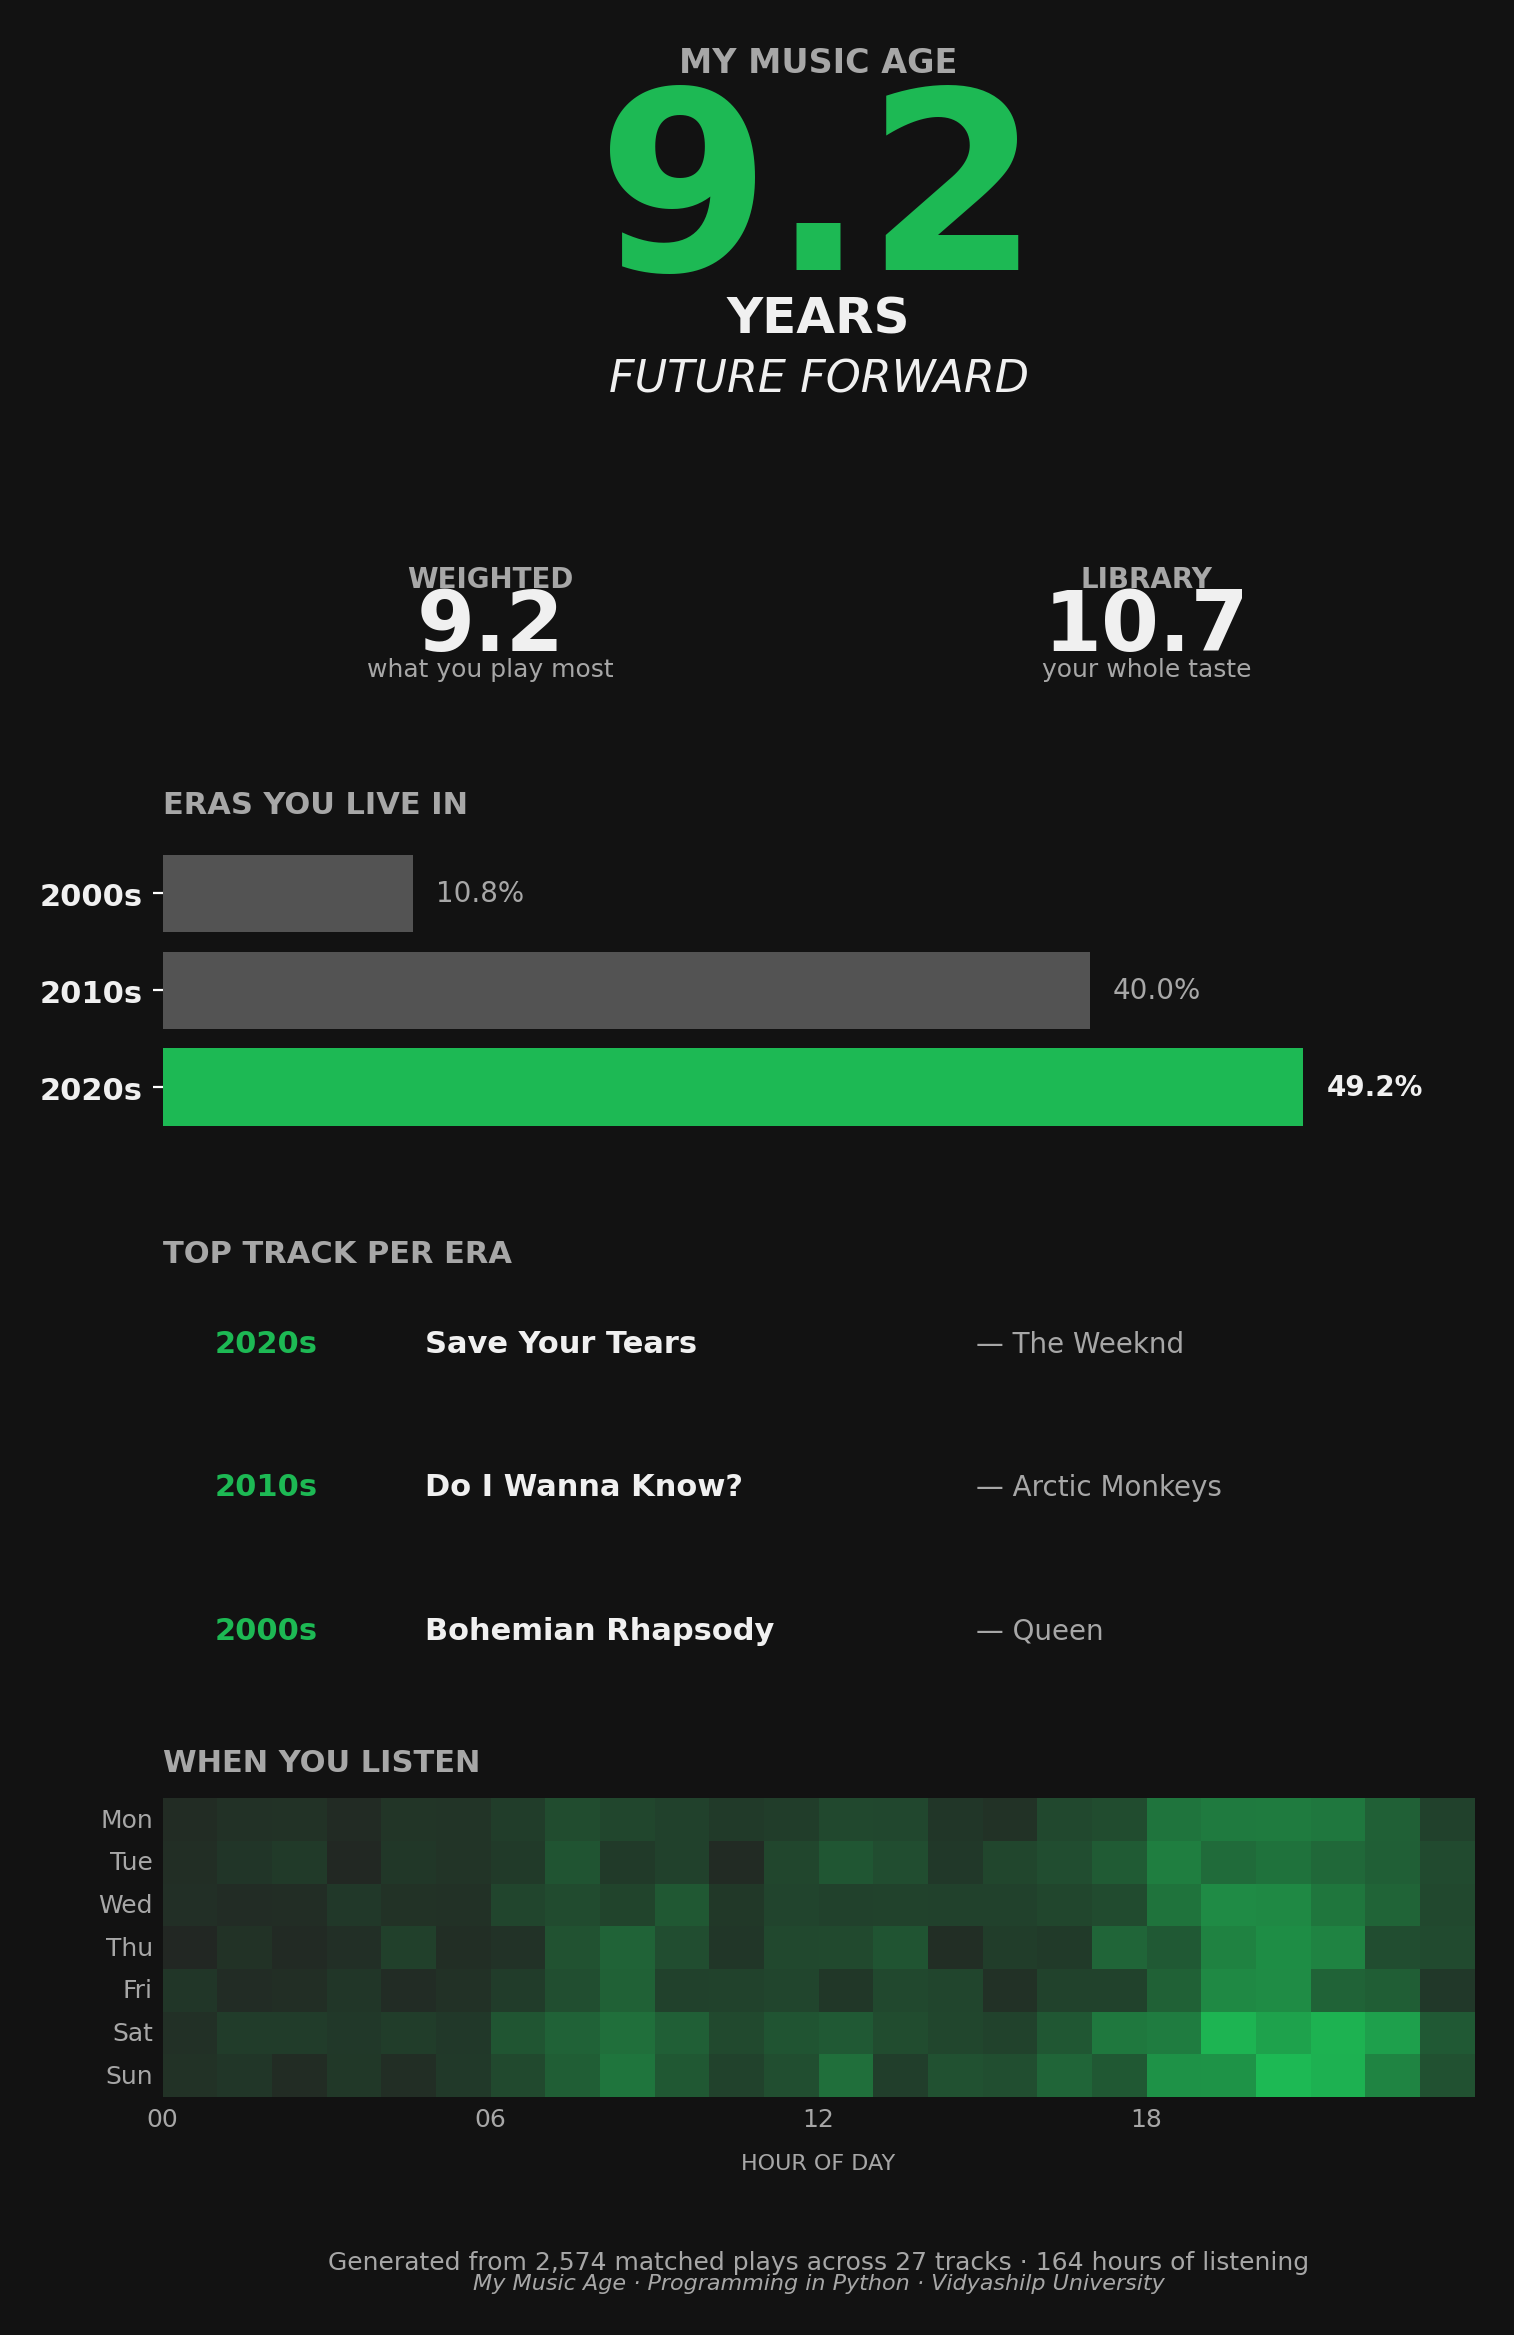
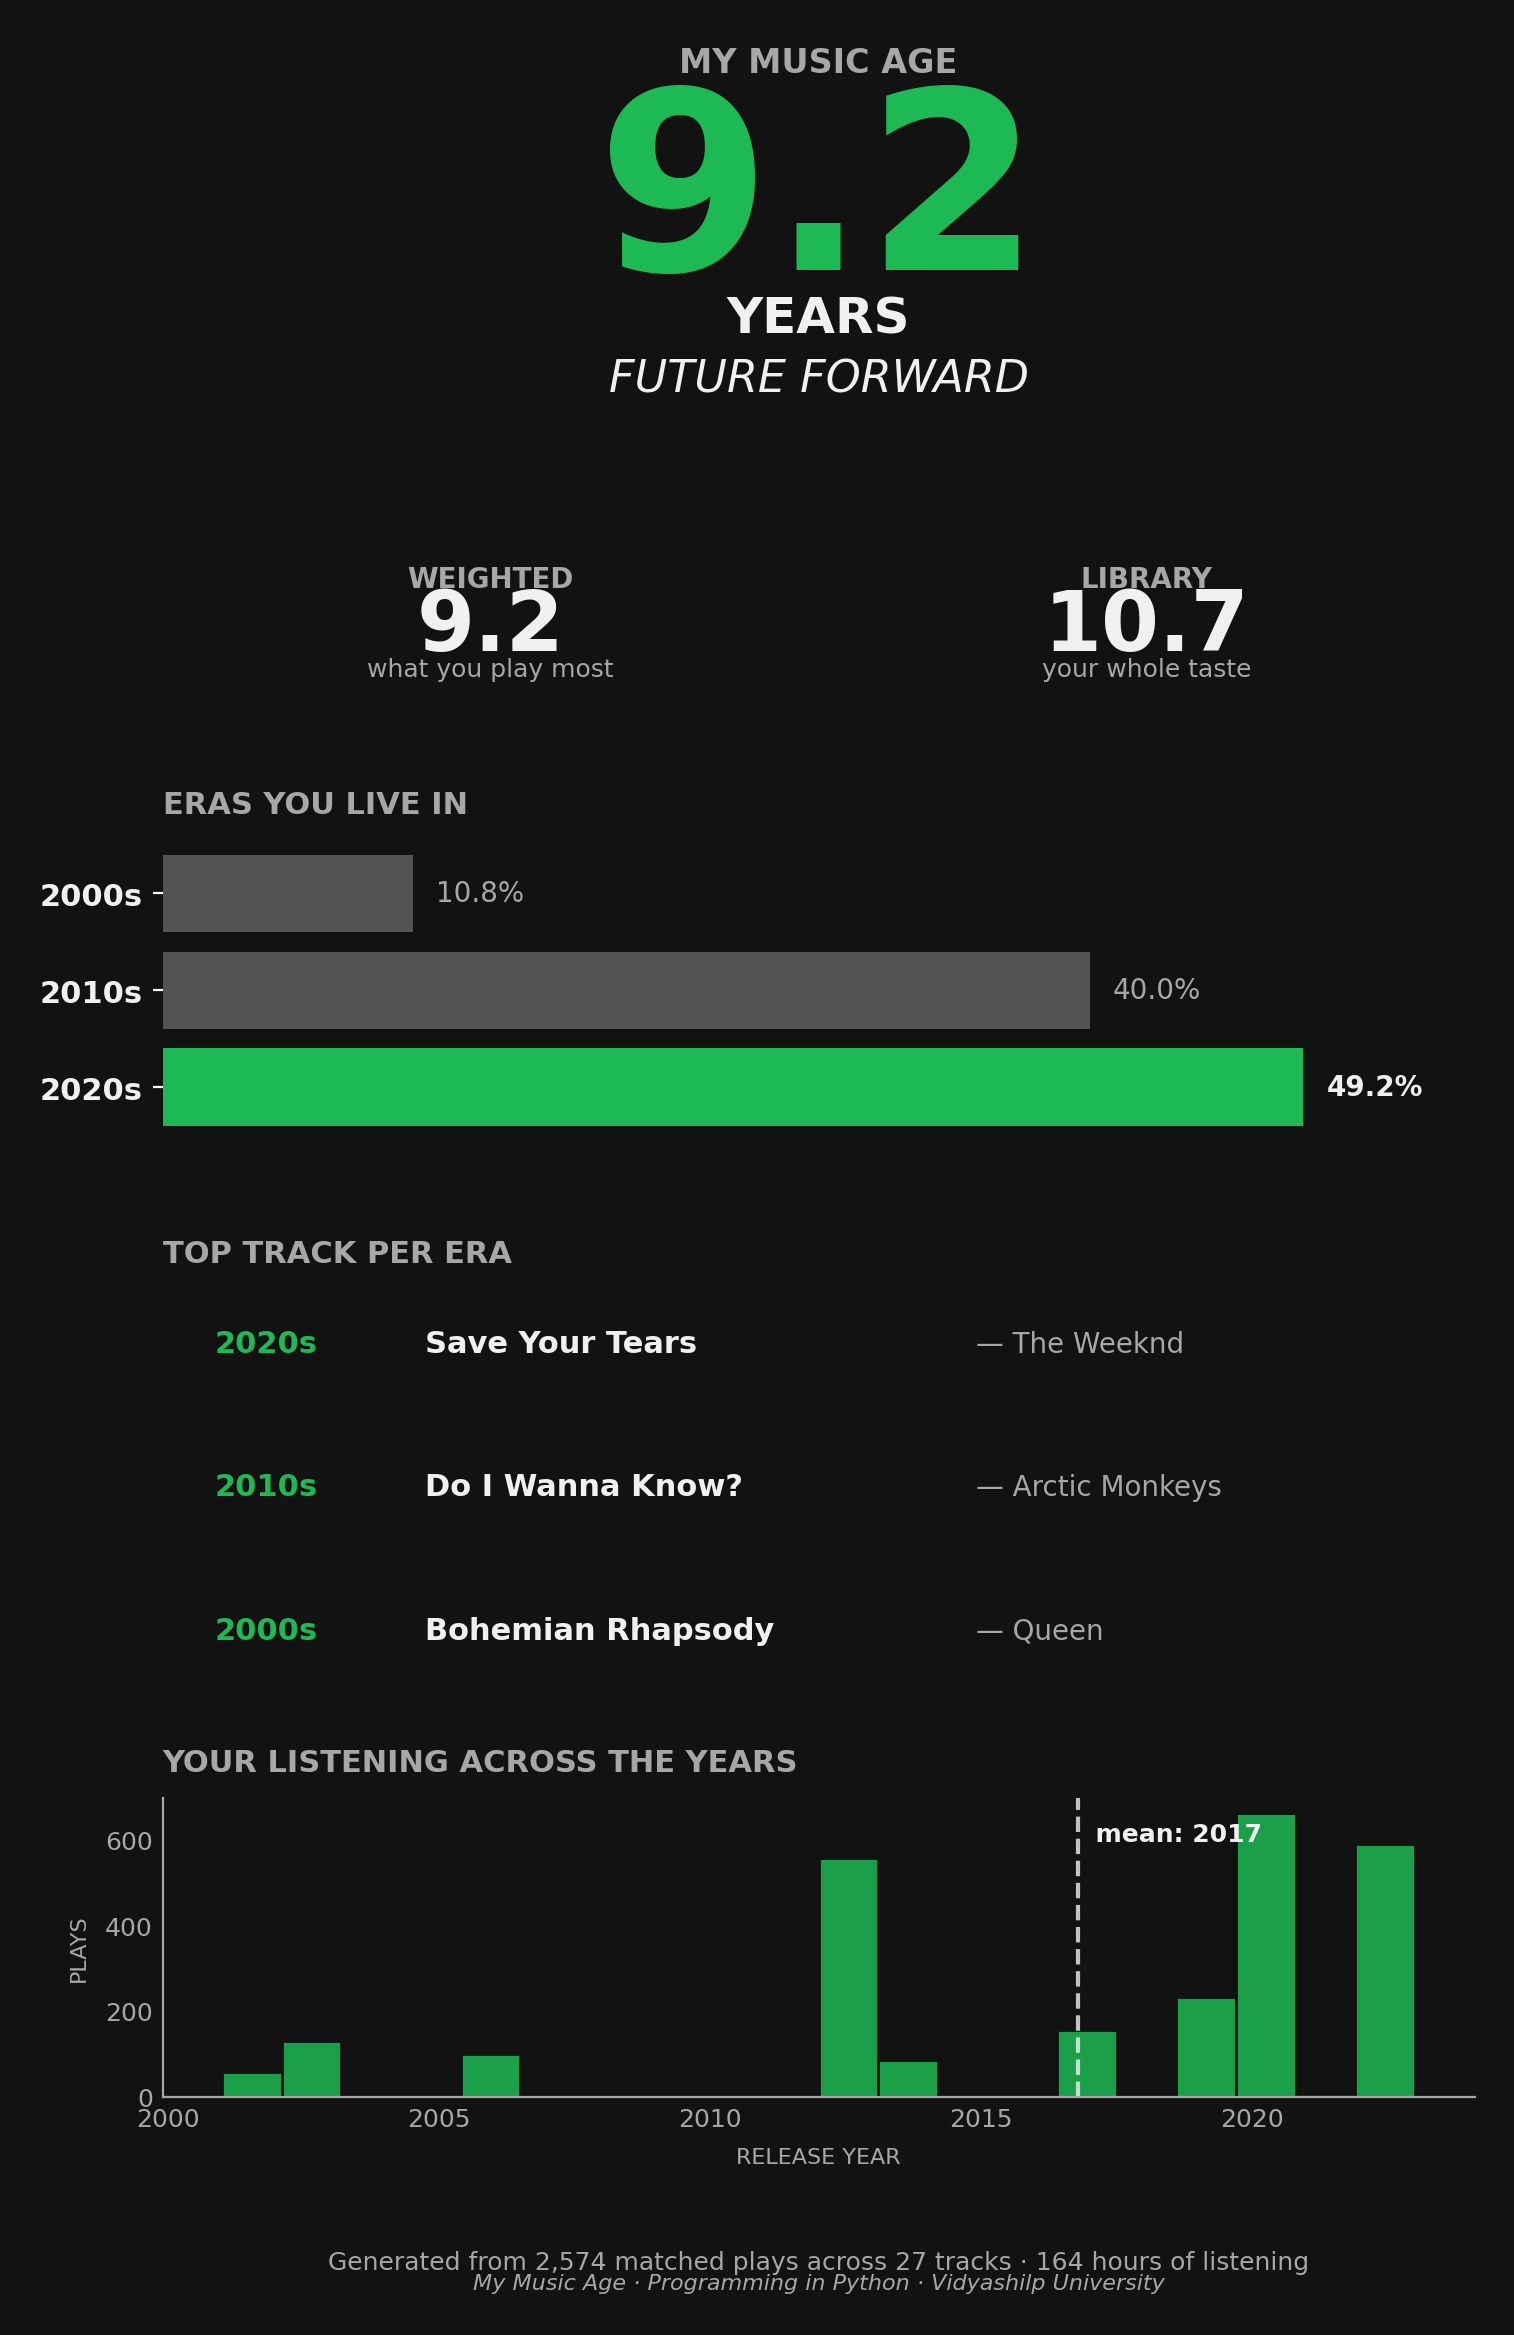
Fix syllabus compliance: replace heatmap with histplot, manual weighted mean

Changed region(s): [[0.0621, 0.74, 0.9934, 0.9251]]

diff --git a/stage5/wrapped_poster.py b/stage5/wrapped_poster.py
@@ -8,12 +8,13 @@ user's Music Age report.
 
 Built using ONLY syllabus-covered tools:
   - matplotlib subplots, bar charts, text annotations  (Module 3, L26)
-  - seaborn heatmap                                    (Module 3, L27)
+  - seaborn histplot                                   (Module 3, L27)
   - matplotlib's built-in 'dark_background' style
-  - Pandas groupby + pivot for heatmap data prep       (Module 2, L24)
+  - matplotlib axvline for the mean reference line     (Module 3, L26)
 
-No FancyBboxPatch, no GridSpec, no custom colormaps, no inset_axes —
-everything in this file maps to a session in the course outline.
+No FancyBboxPatch, no GridSpec, no custom colormaps, no inset_axes,
+no heatmap (which isn't in the syllabus) — everything in this file
+maps to a session in the course outline.
 
 Public API:
     render_poster(age, era_dist, top_per_decade, listening_df,
@@ -227,55 +228,75 @@ def _draw_top_tracks(ax, top_per_decade: pd.DataFrame):
                 transform=ax.transAxes)
 
 
-def _draw_heatmap(ax, listening_df: pd.DataFrame):
+def _draw_release_year_distribution(ax, enriched_df: pd.DataFrame):
     """
-    7×24 heatmap (day-of-week × hour-of-day) showing listening intensity.
-    Uses sns.heatmap() — Module 3, L27 (Statistical Visualization using Seaborn).
+    Histogram showing the distribution of release years across the user's
+    matched plays. The mean of this distribution = the user's mean release
+    year, which is what 'Music Age' is computed from.
+
+    Uses sns.histplot() — Module 3, L27 (Statistical Visualization with
+    Seaborn: Boxplots, countplots, histplots, distplots).
+
+    A vertical reference line marks the weighted mean release year — the
+    line is what connects the visual to the headline Music Age number.
+    Vertical line uses ax.axvline() — basic matplotlib, Module 3 L26.
     """
     ax.set_facecolor(BG_COLOR)
-    ax.set_title("WHEN YOU LISTEN", loc="left", color=MUTED_COLOR,
+    ax.set_title("YOUR LISTENING ACROSS THE YEARS",
+                 loc="left", color=MUTED_COLOR,
                  fontsize=11, fontweight="bold", pad=10)
 
-    if "day_of_week" not in listening_df.columns or "hour" not in listening_df.columns:
+    usable = enriched_df.dropna(subset=["release_year"]).copy()
+    if usable.empty:
+        ax.text(0.5, 0.5, "No matched tracks",
+                ha="center", va="center",
+                color=MUTED_COLOR, fontsize=12, transform=ax.transAxes)
         return
 
-    # Pivot the data into a 7×24 grid using groupby + unstack — Module 2, L24
-    day_full  = ["Monday", "Tuesday", "Wednesday", "Thursday",
-                 "Friday", "Saturday", "Sunday"]
-    day_short = ["Mon", "Tue", "Wed", "Thu", "Fri", "Sat", "Sun"]
+    usable["release_year"] = usable["release_year"].astype(int)
 
-    grid = (listening_df
-            .groupby(["day_of_week", "hour"])["minutes_played"]
-            .sum()
-            .unstack(fill_value=0)
-            .reindex(index=day_full, columns=range(24), fill_value=0))
+    # The weighted mean we used to compute Music Age — drawn as a
+    # vertical reference line on top of the distribution.
+    weights = usable["ms_played"].to_numpy()
+    years_arr = usable["release_year"].to_numpy()
+    weighted_mean_year = float((years_arr * weights).sum() / weights.sum())
 
-    # Use a dark-aware green colormap. sns.dark_palette() builds a
-    # gradient from black to the named colour — perfect for our dark theme.
-    cmap = sns.dark_palette(SPOTIFY_GREEN, as_cmap=True)
-
-    sns.heatmap(
-        grid,
+    # Draw the histogram (each play counts as one observation; no
+    # explicit weighting in the bars themselves to keep this simple).
+    sns.histplot(
+        data=usable,
+        x="release_year",
         ax=ax,
-        cmap=cmap,
-        cbar=False,             # no colour bar — keeps the look clean
-        xticklabels=False,      # we'll add custom labels below
-        yticklabels=day_short,
-        linewidths=0,
+        color=SPOTIFY_GREEN,
+        edgecolor=BG_COLOR,
+        bins=20,
+        alpha=0.85,
     )
 
-    # Show only 0/6/12/18 as hour ticks — cleaner than all 24
-    ax.set_xticks([0, 6, 12, 18])
-    ax.set_xticklabels(["00", "06", "12", "18"], color=MUTED_COLOR, fontsize=9)
+    # Reference line at the weighted mean
+    ax.axvline(
+        weighted_mean_year,
+        color=TEXT_COLOR,
+        linestyle="--",
+        linewidth=1.5,
+        alpha=0.8,
+    )
+    ax.text(
+        weighted_mean_year, ax.get_ylim()[1] * 0.92,
+        f"  mean: {weighted_mean_year:.0f}",
+        color=TEXT_COLOR, fontsize=9, fontweight="bold",
+        ha="left", va="top",
+    )
 
-    # Style the y-tick labels
-    for label in ax.get_yticklabels():
-        label.set_color(MUTED_COLOR)
-        label.set_fontsize(9)
+    # Style: muted axes, no top/right spines
+    for spine in ["top", "right"]:
+        ax.spines[spine].set_visible(False)
+    for spine in ["left", "bottom"]:
+        ax.spines[spine].set_color(MUTED_COLOR)
 
-    ax.set_xlabel("HOUR OF DAY", color=MUTED_COLOR, fontsize=8, labelpad=8)
-    ax.set_ylabel("")
-    ax.tick_params(length=0)
+    ax.tick_params(colors=MUTED_COLOR, labelsize=9, length=0)
+    ax.set_xlabel("RELEASE YEAR", color=MUTED_COLOR, fontsize=8, labelpad=6)
+    ax.set_ylabel("PLAYS", color=MUTED_COLOR, fontsize=8, labelpad=6)
 
 
 def _draw_footer(ax, age: dict, listening_stats: dict):
@@ -341,7 +362,7 @@ def render_poster(
     _draw_subages(axes[1], age)
     _draw_era_bars(axes[2], era_dist)
     _draw_top_tracks(axes[3], top_per_decade)
-    _draw_heatmap(axes[4], listening_df)
+    _draw_release_year_distribution(axes[4], listening_df)
     _draw_footer(axes[5], age, listening_stats)
 
     # Tighten margins

diff --git a/stage3/music_age.py b/stage3/music_age.py
@@ -190,10 +190,13 @@ def compute_music_age(
     # --- 1. WEIGHTED mean (every play counts) ---
     # Each play contributes its own release_year to the average.
     # Songs played 500 times count 500 times more than songs played once.
-    # Using NumPy for clarity and to show the weighted-mean formula.
+    #
+    # Weighted-mean formula, written using only basic NumPy operations
+    # (multiplication, sum, division) — all covered in Module 2 L18.
+    # Equivalent to: sum(year * play_time) / sum(play_time).
     years           = usable["release_year"].to_numpy()
     weights         = usable["ms_played"].to_numpy()
-    mean_release_w  = np.average(years, weights=weights)
+    mean_release_w  = np.sum(years * weights) / np.sum(weights)
 
     # --- 2. LIBRARY mean (each unique track once) ---
     unique_tracks = (

diff --git a/stage4/README.md b/stage4/README.md
@@ -18,10 +18,9 @@ This stage uses **only syllabus-covered tools**:
 
 - `plt.subplots()` with `gridspec_kw` for multi-panel layout — Module 3, L26
 - `ax.barh()` — horizontal bar chart, Module 3, L26
-- `ax.text()` — text annotations, Module 3
-- `sns.heatmap()` with `sns.dark_palette()` — Module 3, L27 (Statistical Visualization with Seaborn)
+- `ax.text()` and `ax.axvline()` — text/line annotations, Module 3, L26
+- `sns.histplot()` — explicitly listed in Module 3, L27 (Statistical Visualization with Seaborn)
 - `plt.style.use('dark_background')` — built-in matplotlib style
-- Pandas `groupby` + `unstack` for heatmap data prep — Module 2, L24
 
 No external libraries beyond matplotlib and seaborn.
 
@@ -47,8 +46,11 @@ saved to this folder. It has six panels:
 2. **Sub-ages** — weighted vs library age side-by-side
 3. **Eras You Live In** — bar chart of decade share, dominant decade in green
 4. **Top Track Per Era** — newest to oldest decade, one track each
-5. **When You Listen** — day × hour heatmap (`sns.heatmap`)
+5. **Your Listening Across the Years** — release-year histogram with mean reference line
 6. **Footer** — plays / tracks / hours summary
+
+The histogram in panel 5 directly visualises *why* the Music Age is what it is —
+the dashed vertical line is the mean release year, and Music Age = current year − that mean.
 
 ## Retuning the look
 
